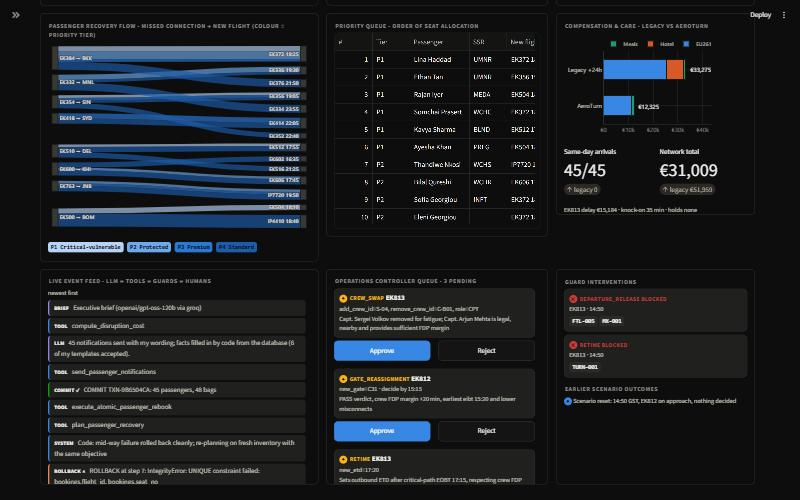
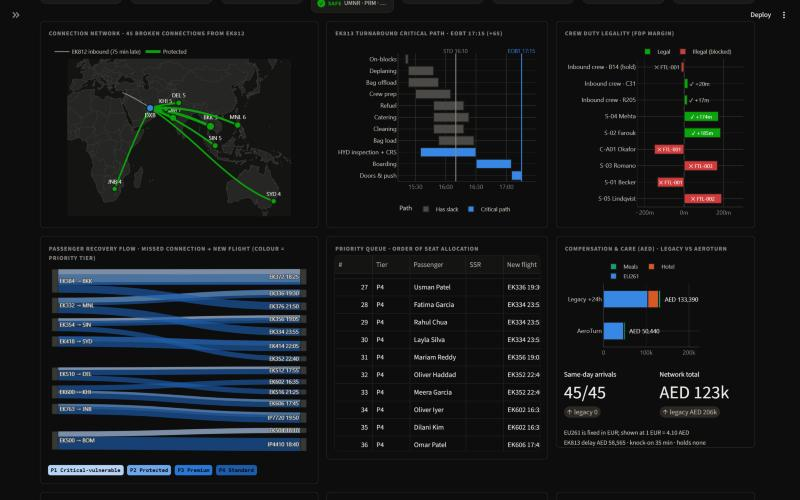
Report all costs in UAE dirhams (AED)
- Cost model outputs AED; EU261 amounts stay in EUR by law and are converted
  at a configurable rate (EUR_TO_AED = 4.10, mid-market reference 27 Oct 2026)
- Commercial assumptions now AED-native: AED 400/min aircraft delay, AED 1.50
  per passenger-minute, AED 100 meal voucher, AED 550 hotel
- Dashboard, hold analysis, agent narration, executive brief and docs show AED
  (passenger cost AED 133,390 legacy -> AED 40,200 with hold / 50,440 without)
- FX note shown next to every EU261-derived figure

diff --git a/app.py b/app.py
@@ -552,13 +552,14 @@ def cost_chart() -> go.Figure:
     for comp, name, col in (("eu261", "EU261", S1), ("hotel", "Hotel", S2), ("meals", "Meals", S3)):
         fig.add_trace(go.Bar(y=["Legacy +24h", "AeroTurn"], x=[leg[comp], aer[comp]], orientation="h", name=name,
                              marker=dict(color=col, line=dict(color=SURFACE, width=2)), width=0.55,
-                             hovertemplate=name + ": €%{x:,}<extra></extra>"))
+                             hovertemplate=name + ": AED %{x:,}<extra></extra>"))
     for y, tot in (("Legacy +24h", leg["total"]), ("AeroTurn", aer["total"])):
-        fig.add_annotation(x=tot, y=y, text=f"  €{tot:,}", showarrow=False, xanchor="left", font=dict(color=INK, size=12))
+        fig.add_annotation(x=tot, y=y, text=f"  AED {tot:,}", showarrow=False, xanchor="left",
+                           font=dict(color=INK, size=12))
     fig.update_yaxes(categoryorder="array", categoryarray=["AeroTurn", "Legacy +24h"], title=None)
-    fig.update_xaxes(title=None, tickprefix="€", tickformat="~s")
+    fig.update_xaxes(title=None, tickformat="~s", nticks=4)
     base_layout(fig, 210)
-    fig.update_layout(barmode="stack", margin=dict(l=8, r=70, t=26, b=8))
+    fig.update_layout(barmode="stack", margin=dict(l=8, r=96, t=26, b=8))
     return fig
 
 
@@ -727,7 +728,7 @@ with tabs[0]:
         kpi(k[6], "Controller queue", str(len(SNAP["pending"])), "gate · hold · crew · retime",
             "warn" if SNAP["pending"] else "good", "PENDING" if SNAP["pending"] else "EMPTY")
         sav = cst["savings"] if SNAP["rebook_order"] else 0
-        kpi(k[7], "Passenger cost saved", f"€{sav:,}", f"vs legacy €{cst['legacy_auto_reprotect']['total']:,}",
+        kpi(k[7], "Passenger cost saved", f"AED {sav:,}", f"vs legacy AED {cst['legacy_auto_reprotect']['total']:,}",
             "good" if sav > 0 else "info", "SAVED" if sav > 0 else "PENDING")
 
         st.write("")
@@ -777,14 +778,15 @@ with tabs[0]:
                                         "Tier": st.column_config.TextColumn(width="small"),
                                         "SSR": st.column_config.TextColumn(width="small")})
         with b3.container(border=True):
-            st.markdown("<div class='sec'>Compensation & care · legacy vs AeroTurn</div>", unsafe_allow_html=True)
+            st.markdown("<div class='sec'>Compensation & care (AED) · legacy vs AeroTurn</div>", unsafe_allow_html=True)
             st.plotly_chart(cost_chart(), config=PLOT_CFG, theme=None, key="cost")
             m1, m2 = st.columns(2)
             m1.metric("Same-day arrivals", f"{cst['aeroturn']['same_day']}/{cst['scope_passengers']}",
                       f"legacy {cst['legacy_auto_reprotect']['same_day']}", delta_color="off")
-            m2.metric("Network total", f"€{cst['network_total_aeroturn']:,}",
-                      f"legacy €{cst['network_total_legacy']:,}", delta_color="off")
-            st.markdown(f"<div class='small'>EK813 delay €{cst['outbound_rotation']['delay_cost']:,} · knock-on "
+            m2.metric("Network total", f"AED {cst['network_total_aeroturn'] / 1000:,.0f}k",
+                      f"legacy AED {cst['network_total_legacy'] / 1000:,.0f}k", delta_color="off")
+            st.markdown(f"<div class='small'>{cst['fx_note']}</div>", unsafe_allow_html=True)
+            st.markdown(f"<div class='small'>EK813 delay AED {cst['outbound_rotation']['delay_cost']:,} · knock-on "
                         f"{cst['outbound_rotation']['knock_on_return_delay_min']} min · holds "
                         f"{', '.join(cst['connection_holds']['flights']) or 'none'}</div>", unsafe_allow_html=True)
 
@@ -943,11 +945,15 @@ with tabs[4]:
         st.dataframe(pd.DataFrame([{"Flight": h["flight"], "Dest": h["dest"], "STD": h["std"], "Pax": h["pax_protected"],
                                     "Hold needed": f"{h['hold_needed_min']} min",
                                     "Cap ≤30": "ok" if h["allowed"] else "NET-001",
-                                    "Hold cost": f"€{h['hold_cost']:,}", "Rebook cost": f"€{h['rebook_cost']:,}",
-                                    "Net saving": f"€{h['net_saving']:,}",
+                                    "Hold cost": f"AED {h['hold_cost']:,}", "Rebook cost": f"AED {h['rebook_cost']:,}",
+                                    "Net saving": f"AED {h['net_saving']:,}",
                                     "Verdict": "HOLD" if h["recommended"] else "rebook", "Status": h["hold_status"]}
                                    for h in costs.hold_analysis(C)]), hide_index=True)
-        st.markdown("<div class='sec'>Per passenger (EU261 whole-journey from Larnaca)</div>", unsafe_allow_html=True)
+        st.markdown(f"<div class='sec'>Per passenger, AED (EU261 whole-journey from Larnaca · {cst['fx_note']})</div>",
+                    unsafe_allow_html=True)
+        st.caption(f"Hold cost = minutes × (AED {config.DELAY_COST_AED_PER_MIN} aircraft + AED {config.PAX_MINUTE_AED:.2f} × "
+                   f"passengers on board). Meal voucher AED {config.MEAL_VOUCHER_AED}, hotel AED "
+                   f"{config.HOTEL_NIGHT_AED}. Assumptions, editable in aeroturn/config.py.")
         st.dataframe(pd.DataFrame(cst["per_passenger"]), hide_index=True, height=360)
 
 # ===========================================================================

diff --git a/aeroturn/costs.py b/aeroturn/costs.py
@@ -7,6 +7,8 @@ EU261 basis used here (simplified, for illustration):
   * Final-arrival delay of 3h or more triggers compensation by great-circle
     distance origin -> final destination: <=1500 km EUR250, <=3500 km EUR400,
     >3500 km EUR600, halved for >3500 km when the delay is 3h-4h (Art. 7(2)(c)).
+  * All results are reported in AED. EU261 amounts stay in EUR by law and are
+    converted at config.EUR_TO_AED; the other rates are AED assumptions.
   * EK-813 departs DXB on a non-EU carrier, so EU261 does not apply to it.
     Its delay is costed with a per-minute tactical delay cost (assumption).
 Commercial rates are assumptions from config.py, not legal advice.
@@ -65,11 +67,12 @@ def passenger_cost(conn, pax: dict, orig_flight: dict, new_flight: dict | None, 
     eu = eu261_amount(distance, delay) if covered else 0
     if pax["is_infant"]:
         eu = 0  # assumption: lap-infant ticket issued free of charge -> outside scope (Art. 3(3))
-    meals = config.MEAL_VOUCHER_EUR if wait >= 120 else 0
+    meals = config.MEAL_VOUCHER_AED if wait >= 120 else 0
     overnight = new_std.date() > orig_std.date()
-    hotel = config.HOTEL_NIGHT_EUR if overnight else 0
-    return {"distance_km": distance, "arrival_delay_min": delay, "eu261": eu, "meals": meals, "hotel": hotel,
-            "total": eu + meals + hotel, "same_day": not overnight}
+    hotel = config.HOTEL_NIGHT_AED if overnight else 0
+    eu_aed = int(round(eu * config.EUR_TO_AED))
+    return {"distance_km": distance, "arrival_delay_min": delay, "eu261": eu_aed, "eu261_eur": eu, "meals": meals,
+            "hotel": hotel, "total": eu_aed + meals + hotel, "same_day": not overnight}
 
 
 def disruption_cost(conn: sqlite3.Connection, plan: dict | None = None) -> dict:
@@ -134,13 +137,13 @@ def disruption_cost(conn: sqlite3.Connection, plan: dict | None = None) -> dict:
     outbound = {
         "flight": out["flight_no"], "delay_min": out_delay, "pax": out["load_pax"],
         "eu261": 0, "eu261_note": "Departure from DXB on a non-EU carrier: EU261 not applicable",
-        "delay_cost": int(round(out_delay * (config.DELAY_COST_EUR_PER_MIN + config.PAX_MINUTE_EUR * out["load_pax"]))),
+        "delay_cost": int(round(out_delay * (config.DELAY_COST_AED_PER_MIN + config.PAX_MINUTE_AED * out["load_pax"]))),
         "knock_on_return_delay_min": knock_on,
-        "knock_on_cost": knock_on * config.DELAY_COST_EUR_PER_MIN,
+        "knock_on_cost": knock_on * config.DELAY_COST_AED_PER_MIN,
     }
     held = [f for f in flights.values() if f["status"] == "HELD" and f["etd"]]
     hold_cost = sum(int(round(minutes(parse(f["std"]), parse(f["etd"])) *
-                              (config.DELAY_COST_EUR_PER_MIN + config.PAX_MINUTE_EUR * f["load_pax"]))) for f in held)
+                              (config.DELAY_COST_AED_PER_MIN + config.PAX_MINUTE_AED * f["load_pax"]))) for f in held)
     outbound_hold = {"flights": [f["flight_no"] for f in held], "cost": hold_cost}
     savings = legacy["total"] - aero["total"]
     return {
@@ -153,8 +156,10 @@ def disruption_cost(conn: sqlite3.Connection, plan: dict | None = None) -> dict:
         "connection_holds": outbound_hold,
         "network_total_aeroturn": aero["total"] + outbound["delay_cost"] + outbound["knock_on_cost"] + hold_cost,
         "network_total_legacy": legacy["total"] + outbound["delay_cost"] + outbound["knock_on_cost"],
-        "assumptions": {"delay_cost_eur_per_min": config.DELAY_COST_EUR_PER_MIN,
-                        "meal_voucher_eur": config.MEAL_VOUCHER_EUR, "hotel_night_eur": config.HOTEL_NIGHT_EUR,
+        "fx_note": f"EU261 is fixed in EUR; shown at 1 EUR = {config.EUR_TO_AED:.2f} AED",
+        "assumptions": {"delay_cost_aed_per_min": config.DELAY_COST_AED_PER_MIN,
+                        "pax_minute_aed": config.PAX_MINUTE_AED, "eur_to_aed": config.EUR_TO_AED,
+                        "meal_voucher_aed": config.MEAL_VOUCHER_AED, "hotel_night_aed": config.HOTEL_NIGHT_AED,
                         "rotation_buffer_min": rotation_buffer},
         "per_passenger": per_pax,
     }
@@ -196,7 +201,7 @@ def hold_analysis(conn: sqlite3.Connection) -> list[dict]:
         std = parse(f["std"])
         need = max(max(minutes(std, plus(eibt, p["mct_min"])),
                        minutes(std, plus(eibt, LIMITS.bag_mct_min)) if p["bags"] else 0) for p in plist)
-        hold_cost = int(round(need * (config.DELAY_COST_EUR_PER_MIN + config.PAX_MINUTE_EUR * f["load_pax"])))
+        hold_cost = int(round(need * (config.DELAY_COST_AED_PER_MIN + config.PAX_MINUTE_AED * f["load_pax"])))
         rebook_cost = 0
         for p in plist:
             t = target.get(p["pax_id"])

diff --git a/aeroturn/agent.py b/aeroturn/agent.py
@@ -249,6 +249,7 @@ class AeroTurnAgent:
             "standby_captains": [{"crew_id": c["crew_id"], "name": c["name"], "legal": c["legal"],
                                   "minutes_away": c["proximity_min"], "fdp_margin": c["margin"],
                                   "blocked_by": [v["rule"] for v in c["violations"]]} for c in sc["candidates"]],
+            "money_currency": "AED",
             "critical_path": {"eobt": cpm["eobt_hm"], "path": cpm["critical_path"], "std": cpm["std_hm"]},
             "connections": s["connections"],
             "vulnerable_passengers": [f"{p['name']} ({p['ssr'] or p['tier_label']}) to {p['dest']}, missed "
@@ -429,13 +430,13 @@ class AeroTurnAgent:
             for rec in hd["recommended"]:
                 opt = next(o for o in hd["options"] if o["flight"] == rec["flight_no"])
                 say(f"Holding {rec['flight_no']} to {opt['dest']} for {rec['hold_min']} min protects "
-                    f"{opt['pax_protected']} connections for EUR {opt['hold_cost']:,} versus EUR {opt['rebook_cost']:,} "
+                    f"{opt['pax_protected']} connections for AED {opt['hold_cost']:,} versus AED {opt['rebook_cost']:,} "
                     f"to rebook them hours later. Other holds cost more than they save. Staging the hold.")
                 self.call("stage_controller_schedule_change", {
                     "change_type": "HOLD_FLIGHT", "flight_no": rec["flight_no"],
                     "details": {"hold_min": rec["hold_min"]},
                     "justification": f"{opt['pax_protected']} EK812 connections protected; net saving "
-                                     f"EUR {rec['net_saving']:,}; {opt['onboard_pax_delayed']} on board delayed "
+                                     f"AED {rec['net_saving']:,}; {opt['onboard_pax_delayed']} on board delayed "
                                      f"{rec['hold_min']} min."})
         if wanted("CREW_SWAP"):
             sc = self.call("find_standby_crew", {"flight_no": "EK813", "rank": "CPT"})
@@ -491,8 +492,8 @@ class AeroTurnAgent:
         if wanted("compute_disruption_cost"):
             c = self.call("compute_disruption_cost")
             if not only_missing:
-                say(f"Cost: AeroTurn EUR {c['aeroturn']['total']:,} vs legacy auto-reprotect "
-                    f"EUR {c['legacy_auto_reprotect']['total']:,}. Saves EUR {c['savings']:,}, and "
+                say(f"Cost: AeroTurn AED {c['aeroturn']['total']:,} vs legacy auto-reprotect "
+                    f"AED {c['legacy_auto_reprotect']['total']:,}. Saves AED {c['savings']:,}, and "
                     f"{c['aeroturn']['same_day']} passengers still reach their destination today.")
         if not only_missing:
             pend = db.one(self.conn, "SELECT COUNT(*) AS n FROM schedule_changes WHERE status = 'PENDING'")["n"]

diff --git a/aeroturn/narrative.py b/aeroturn/narrative.py
@@ -72,7 +72,7 @@ def brief_facts(conn: sqlite3.Connection) -> dict:
         "transactions": [t["outcome"] for t in txns],
         "guard_blocks": len(blocks),
         "guard_interventions": interventions,
-        "cost_eur": {"legacy": c["legacy_auto_reprotect"]["total"], "aeroturn": c["aeroturn"]["total"],
+        "cost_aed": {"legacy": c["legacy_auto_reprotect"]["total"], "aeroturn": c["aeroturn"]["total"],
                      "savings": c["savings"], "eu261_aeroturn": c["aeroturn"]["eu261"],
                      "eu261_legacy": c["legacy_auto_reprotect"]["eu261"],
                      "outbound_delay_cost": c["outbound_rotation"]["delay_cost"]},
@@ -108,9 +108,9 @@ def template_brief(f: dict) -> str:
         "",
         f"**Maintenance.** " + "; ".join(f"{m['item']} {m['title']}: {m['crs']}" for m in f["maintenance"]),
         "",
-        f"**Cost.** AeroTurn EUR {f['cost_eur']['aeroturn']:,} vs legacy auto-reprotect EUR {f['cost_eur']['legacy']:,} "
-        f"(saves EUR {f['cost_eur']['savings']:,}; EU261 EUR {f['cost_eur']['eu261_aeroturn']:,} vs "
-        f"EUR {f['cost_eur']['eu261_legacy']:,}). {f['same_day_arrivals']} passengers still travel today.",
+        f"**Cost.** AeroTurn AED {f['cost_aed']['aeroturn']:,} vs legacy auto-reprotect AED {f['cost_aed']['legacy']:,} "
+        f"(saves AED {f['cost_aed']['savings']:,}; EU261 AED {f['cost_aed']['eu261_aeroturn']:,} vs "
+        f"AED {f['cost_aed']['eu261_legacy']:,}). {f['same_day_arrivals']} passengers still travel today.",
     ]
     return "\n".join(lines)
 
@@ -126,7 +126,7 @@ Situation, Decisions awaiting you, Executed (atomic), Safety guard interventions
 "Decisions awaiting you" lists ONLY awaiting_controller. "Executed (atomic)" lists ONLY executed_atomically
 (staged changes are NOT executed). "Safety guard interventions" lists ONLY guard_interventions, verbatim in meaning.
 Use ONLY facts and numbers from the JSON below. Do not invent any number, time, flight or name.
-Write amounts like EUR 12,325.
+All money is in UAE dirhams: write amounts like AED 50,532.
 Be direct and specific; the controller must decide quickly.
 
 FACTS:

diff --git a/aeroturn/config.py b/aeroturn/config.py
@@ -26,10 +26,11 @@ OUTBOUND_FLIGHT_ID = "EK813-1121"
 HOME_CARRIER = "EK"
 
 # Commercial assumptions (illustrative, editable, NOT safety rules)
-CURRENCY = "EUR"
-DELAY_COST_EUR_PER_MIN = 100      # tactical delay cost, wide-body aircraft (assumption)
-PAX_MINUTE_EUR = 0.40             # value of one passenger-minute of delay for those on board (assumption)
+# Money is reported in UAE dirhams. EU261 amounts are fixed in EUR by law and are converted at EUR_TO_AED.
+CURRENCY = "AED"
+EUR_TO_AED = 4.10                 # reference mid-market rate (27 Oct 2026); set to the day's rate
+DELAY_COST_AED_PER_MIN = 400      # tactical delay cost, wide-body aircraft (assumption, ~EUR 100)
+PAX_MINUTE_AED = 1.50             # value of one passenger-minute of delay for those on board (assumption)
 MAX_RECOMMENDED_HOLD_MIN = 15     # commercial policy for suggesting a connection hold (the safety cap is in guards)
-MEAL_VOUCHER_EUR = 25             # right-to-care meal voucher per passenger
-HOTEL_NIGHT_EUR = 150             # overnight accommodation + transport per passenger
-GOODWILL_VULNERABLE_EUR = 0       # optional goodwill gesture, off by default
+MEAL_VOUCHER_AED = 100            # right-to-care meal voucher per passenger
+HOTEL_NIGHT_AED = 550             # overnight accommodation + transport per passenger

diff --git a/aeroturn/tools.py b/aeroturn/tools.py
@@ -292,8 +292,8 @@ def guard_for_change(conn: sqlite3.Connection, change_type: str, flight: dict, d
         derived = {"new_etd": fmt(plus(std, hold)), "valid_until": fmt(plus(std, -5)), "hold_min": hold}
         econ = next((r for r in costs.hold_analysis(conn) if r["flight_id"] == flight["flight_id"]), None)
         if econ and econ["hold_status"] == "-":   # record the economics at proposal time
-            derived.update(hold_cost=int(round(hold * (config.DELAY_COST_EUR_PER_MIN +
-                                                       config.PAX_MINUTE_EUR * flight["load_pax"]))),
+            derived.update(hold_cost=int(round(hold * (config.DELAY_COST_AED_PER_MIN +
+                                                       config.PAX_MINUTE_AED * flight["load_pax"]))),
                            rebook_cost=econ["rebook_cost"], pax_protected=econ["pax_protected"])
     elif change_type == "DEPARTURE_RELEASE":
         off = parse(str(details.get("off_blocks", "")))

diff --git a/docs/DATA_SOURCES.md b/docs/DATA_SOURCES.md
@@ -75,7 +75,7 @@ The brief suggests OpenSky and OurAirports. We use OurAirports-style airport ref
 | Rule | What we implemented | Source |
 |---|---|---|
 | A bag never travels without its passenger (PPBM) | DB trigger, deferred foreign key and guard BAG-001 | ICAO Annex 17 passenger/baggage reconciliation (Standard 4.5.3, renumbered 4.5.6 in 2022): [IATA Hold Baggage Reconciliation (2025)](https://www.iata.org/contentassets/1998554ac6624b97a2de8418938eaade/2025-hold-baggage-reconciliation-iata2025.pdf) |
-| EU261 compensation amounts | €250 (≤1,500 km), €400 (≤3,500 km), €600 (>3,500 km); halved for >3,500 km when arrival is 3–4h late | Reg. (EC) 261/2004 Art. 7: [text](https://www.legislation.gov.uk/eur/2004/261/article/7); reduction thresholds: [European Parliament factsheet](https://www.europarl.europa.eu/erpl-app-public/factsheets/pdf/en/FTU_2.2.3.pdf) |
+| EU261 compensation amounts | €250 (≤1,500 km), €400 (≤3,500 km), €600 (>3,500 km); halved for >3,500 km when arrival is 3–4h late. Fixed in EUR by law; the dashboard reports them in AED at 1 EUR = 4.10 AED | Reg. (EC) 261/2004 Art. 7: [text](https://www.legislation.gov.uk/eur/2004/261/article/7); reduction thresholds: [European Parliament factsheet](https://www.europarl.europa.eu/erpl-app-public/factsheets/pdf/en/FTU_2.2.3.pdf) |
 | Long delay = compensation | Arrival delay of 3h or more | CJEU C-402/07 *Sturgeon*: [judgment](https://mansfield.bailii.org/eu/cases/EUECJ/2009/C40207.html) |
 | Measured at the final destination, whole journey from the EU | Compensation follows the final-arrival delay of the single-booking journey that started in Larnaca | CJEU C-11/11 *Folkerts*; CJEU C-537/17 *Wegener*: [CURIA press release](https://curia.europa.eu/jcms/upload/docs/application/pdf/2018-05/cp180077en.pdf); applied to an Emirates connection via Dubai in *Gahan v Emirates* [2017] EWCA Civ 1530: [judgment](https://caselaw.nationalarchives.gov.uk/ewca/civ/2017/1530) |
 | Right to care | Meals for long waits, hotel when overnight | Reg. 261/2004 Art. 9: [text](https://www.legislation.gov.uk/eur/2004/261/article/9) |
@@ -86,7 +86,7 @@ The brief suggests OpenSky and OurAirports. We use OurAirports-style airport ref
 
 | Value | Ours | Public reference |
 |---|---|---|
-| Aircraft tactical delay cost | €100/min plus €0.40 per passenger-minute, as an **illustrative assumption** | The EUROCONTROL / University of Westminster reference values are the standard European source: [EUROCONTROL, cost of one minute of delay](https://www.eurocontrol.int/publication/evaluating-true-cost-airlines-one-minute-airborne-or-ground-delay); [Westminster, cost of delay to air transport in Europe](https://westminsterresearch.westminster.ac.uk/item/90w7x/the-cost-of-delay-to-air-transport-in-europe-quantification-and-management). EUROCONTROL's Standard Inputs are reported at about €166/min at gate for tactical delay, so our figure is conservative |
+| Aircraft tactical delay cost | AED 400/min (≈ €100) plus AED 1.50 per passenger-minute, as an **illustrative assumption** | The EUROCONTROL / University of Westminster reference values are the standard European source: [EUROCONTROL, cost of one minute of delay](https://www.eurocontrol.int/publication/evaluating-true-cost-airlines-one-minute-airborne-or-ground-delay); [Westminster, cost of delay to air transport in Europe](https://westminsterresearch.westminster.ac.uk/item/90w7x/the-cost-of-delay-to-air-transport-in-europe-quantification-and-management). EUROCONTROL's Standard Inputs are reported at about €166/min (≈ AED 680) at gate for tactical delay, so our figure is conservative |
 
 ---
 
@@ -115,7 +115,8 @@ These are modelling choices. They are listed so judges can challenge them, and t
 | Priority tiers P1–P4 | Defined in `guards.pax_tier` | Brief requires vulnerable-passenger priority protection |
 | Exit-row eligibility | No UMNR, reduced-mobility, medical, pregnant or infant passengers; age 15–74 | Typical exit-row policy |
 | Connection hold | Suggest only if ≤ 15 min and cheaper than rebooking; network cap 30 min | |
-| Meal voucher / hotel | €25 / €150 per passenger | |
+| Meal voucher / hotel | AED 100 / AED 550 per passenger | |
+| Exchange rate | 1 EUR = 4.10 AED | Mid-market reference rate dated 27 Oct 2026 ([Key Currency](https://www.keycurrency.co.uk/convert-eur-to-aed/?amount=1)); set `EUR_TO_AED` to the day's rate |
 | Rotation buffer at CDG | 30 min | Used for the knock-on delay |
 | Standby call-out response / report-before-off-blocks | 10 min / 45 min | |
 | Turnaround task durations | e.g. deplaning 25, cleaning 30, catering 35, hydraulic inspection 55, boarding 35 min | Estimates for a 777 turn |

diff --git a/docs/PITCH.md b/docs/PITCH.md
@@ -28,8 +28,8 @@
 8. **Impact.**
    - 45/45 connections recovered the same day (41 rebooked, 4 saved by an 8-min hold)
    - 10/10 vulnerable passengers protected
-   - Passenger compensation and care: EUR 33k → EUR 9.8k (−70%)
-   - Network cost: EUR 52k → EUR 31k
+   - Passenger compensation and care: AED 133k → AED 40k (−70%)
+   - Network cost: AED 206k → AED 121k
 
 ## Numbers to remember
 
@@ -41,9 +41,10 @@
 | Holding for planned stand B14 | in-block 15:55 → FDP breach by 15 min |
 | EK813 critical-path EOBT | 17:15 (+65), hydraulic inspection on critical path |
 | Standby captain chosen | S-04, 9 min away, FDP margin 2h54 |
-| Legacy vs AeroTurn passenger compensation + care | EUR 33,275 vs EUR 9,825 |
-| Network cost (incl. EK813 delay, knock-on, hold) | EUR 51,959 vs EUR 30,746 |
-| Connection hold staged | EK418 SYD +8 min: EUR 2,237 vs EUR 2,500 to rebook 4 pax ~6h later |
+| Legacy vs AeroTurn passenger compensation + care | AED 133,390 vs AED 40,200 (AED 50,440 with no hold) |
+| Network cost (incl. EK813 delay, knock-on, hold) | AED 205,955 vs AED 121,353 |
+| Currency | AED; EU261 fixed in EUR, converted at 1 EUR = 4.10 AED |
+| Connection hold staged | EK418 SYD +8 min: AED 8,588 vs AED 10,240 to rebook 4 pax ~6h later |
 | Same-day arrivals | 45/45 (legacy 0/45) |
 | Unconstrained plan | blocked: 15 violations across PAX-001/002/003/004/006 |
 | Tests | 60 passing |
@@ -103,9 +104,9 @@ getting the Bangkok passengers onto the 18:25 (arriving under 3h late) instead o
 financially, not just ethically.
 
 **"Why hold one flight but not the others?"**
-Hold cost = minutes × (aircraft cost + EUR 0.40 × every passenger on board), against the EU261 and care cost
+Hold cost = minutes × (AED 400 aircraft + AED 1.50 × every passenger on board), against the EU261 and care cost
 of rebooking. Only EK418 (8 min, 4 passengers) is cheaper to hold. Holding the Bangkok flight 55 minutes would
-cost EUR 15k to save EUR 2k, and is also above the 30-minute network cap (NET-001). The agent stages the hold,
+cost about AED 60k to save AED 8k, and is also above the 30-minute network cap (NET-001). The agent stages the hold,
 the planner leaves those 4 passengers alone, and if the controller rejects it, one click rebooks them
 atomically.
 

diff --git a/README.md b/README.md
@@ -31,8 +31,11 @@ asleep, the first load takes about a minute.
 - 45/45 broken connections recovered: 41 rebooked atomically, and 4 kept on their flight by an 8-minute hold the
   controller approved.
 - 10/10 vulnerable passengers protected, and all 45 arrive the same day.
-- Passenger compensation and care fall from EUR 33,275 (legacy +24h re-protection) to EUR 9,825 (−70%).
-- Network cost, including the EK813 delay, the knock-on and the hold, falls from EUR 52.0k to EUR 30.7k.
+- Passenger compensation and care fall from AED 133,390 (legacy +24h re-protection) to AED 40,200 (−70%);
+  AED 50,440 if the controller rejects the hold and all 45 are rebooked.
+- Network cost, including the EK813 delay, the knock-on and the hold, falls from AED 206k to AED 121k.
+- All money is in UAE dirhams. EU261 amounts are fixed in EUR by law and converted at 1 EUR = 4.10 AED
+  (`aeroturn/config.py`).
 - 60 automated tests pass.
 
 ---
@@ -251,7 +254,7 @@ Panels:
 
 Detail tabs cover passengers, crew & duty, turnaround & MX, cost & network, and the audit log with the data sources.
 
-![dashboard, lower half](docs/img/dashboard_bottom.png)
+![dashboard panels](docs/img/dashboard_bottom.png)
 
 See [docs/DEMO_SCRIPT.md](docs/DEMO_SCRIPT.md) for the presentation run-sheet and [docs/PITCH.md](docs/PITCH.md)
 for the pitch and judge Q&A.

diff --git a/docs/DEMO_SCRIPT.md b/docs/DEMO_SCRIPT.md
@@ -38,7 +38,7 @@ Talk over the incident banner and the event feed:
   what's legal."
 - "Chaos sold a seat mid-batch. Rollback, re-plan, commit: 45 passengers and 48 bags in one transaction."
 
-KPIs flip to **0 CLEAR · 10/10 SAFE · 3 PENDING · €20,950 SAVED**, and the map arcs turn green.
+KPIs flip to **0 CLEAR · 10/10 SAFE · 3 PENDING · about AED 83k SAVED**, and the map arcs turn green.
 
 ## 1:30 · Guards vs a rogue AI (60 s)
 
@@ -88,7 +88,7 @@ KPIs: **MX-0412 Signed · EK813 RELEASED**.
 
 ## 5:25 · Close (35 s)
 
-Point at **Compensation & care**: legacy €33k against AeroTurn €12k, with 45/45 still arriving today. Then the
+Point at **Compensation & care**: legacy AED 133k against AeroTurn AED 50k, with 45/45 still arriving today. (EU261 is set in euros by law; the dashboard converts at 1 EUR = 4.10 AED.) Then the
 **Guard interventions** board and the **event feed**.
 
 > "The LLM decides what to try. Code decides what is allowed. A human decides what changes the network."
